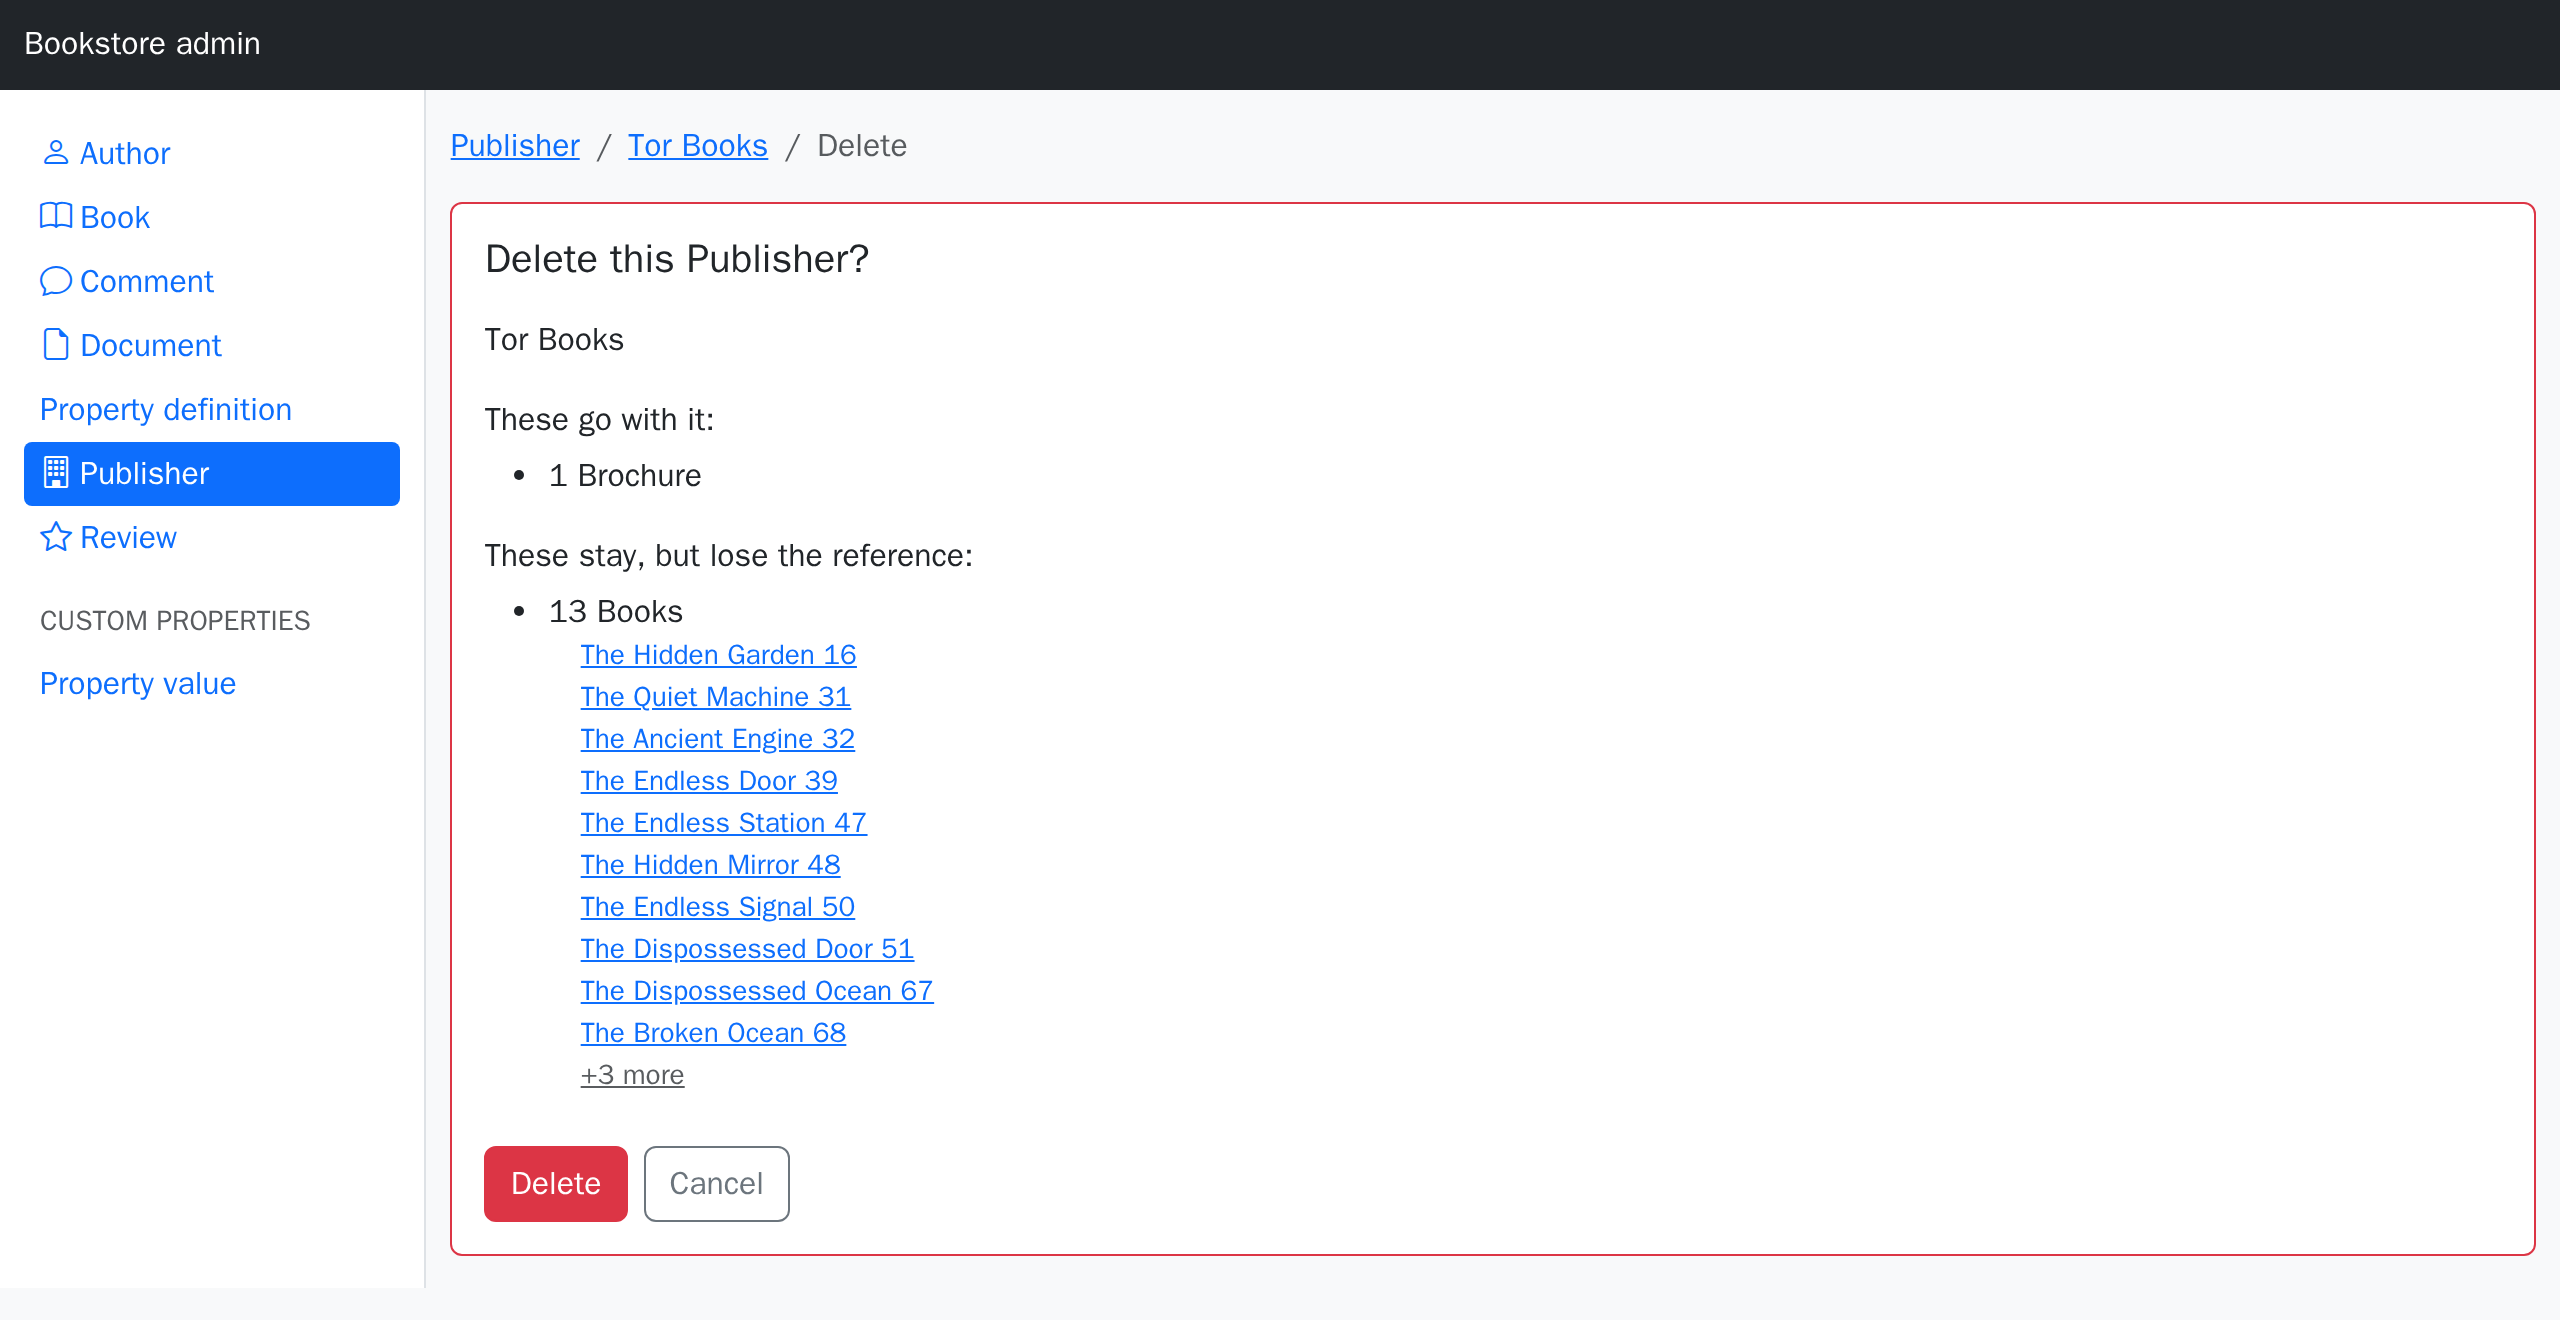
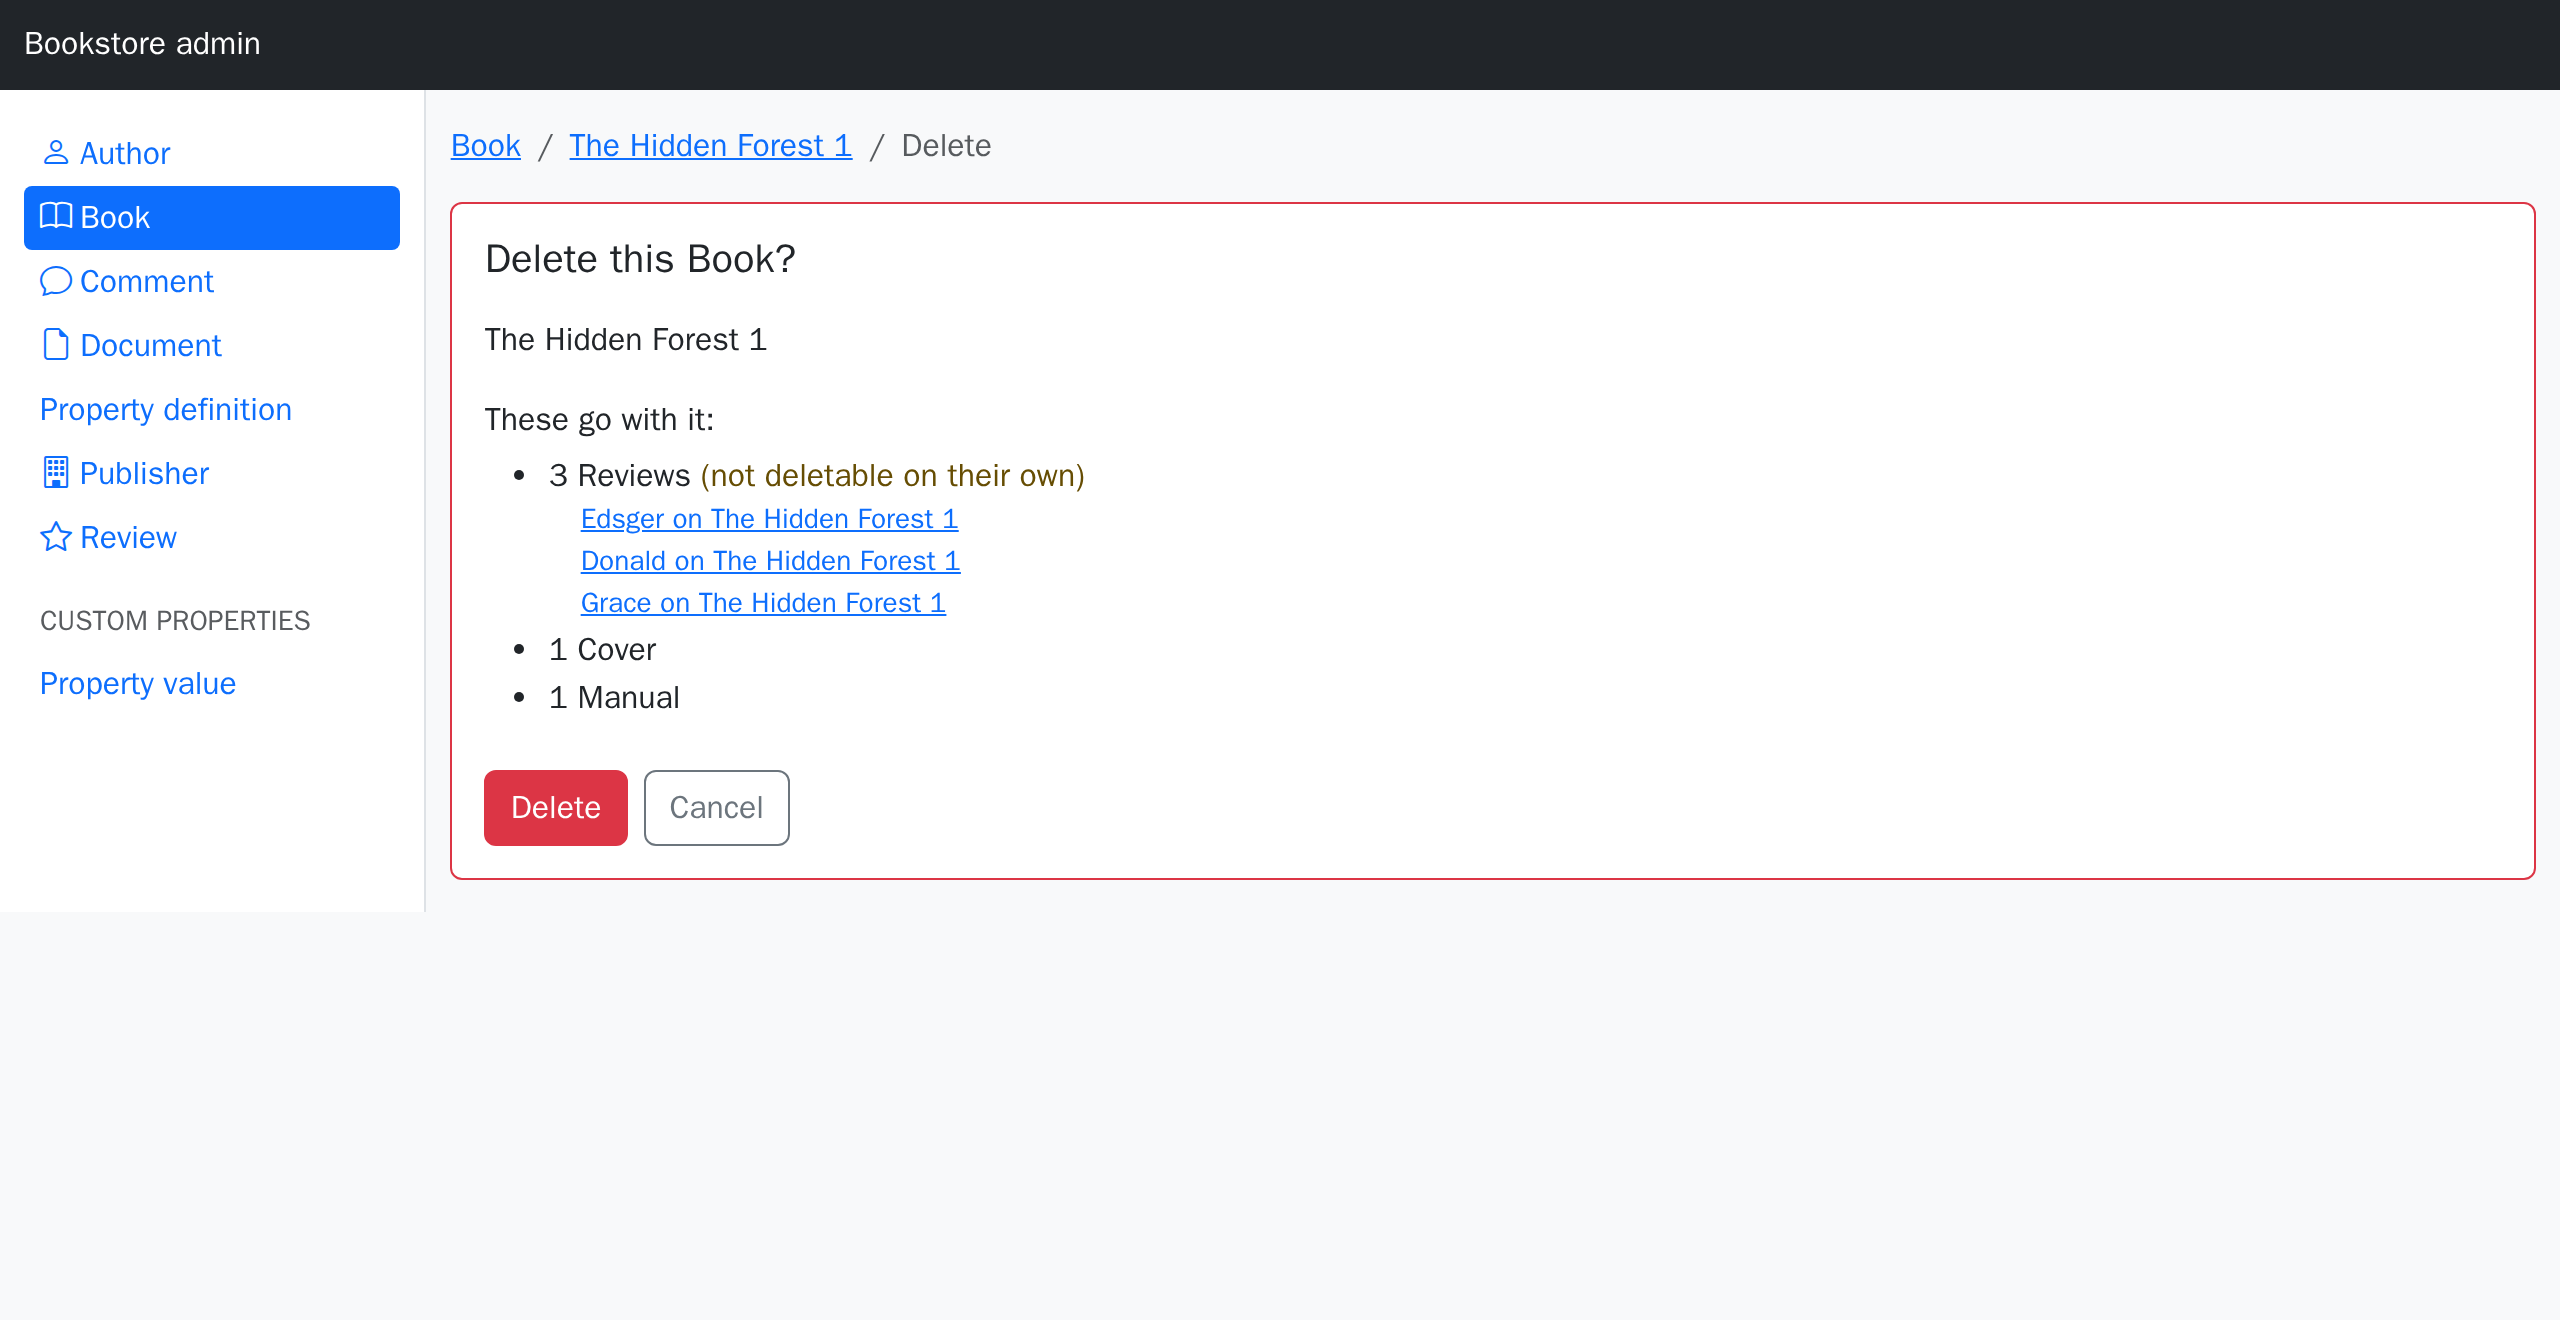
Admin: offer delete only where the ability allows it (#81)
The row's delete button was already asked for per record; the bulk action was
not — named :destroy_selected, it asked the ability about that name, which no
ability grants or denies deliberately. It now asks about :destroy on the model,
so a toolbar offers Delete selected only where deleting is allowed.

A cascade still reaches further than the ability does: dependent: :destroy
takes records you could not delete one by one, and no `can?` question can
express "may delete a Publisher but not its Books". That is not blocked — the
database does it either way — but the group is marked on the confirmation page,
where its records are listed anyway.

diff --git a/test/admin_engine_test.rb b/test/admin_engine_test.rb
@@ -353,6 +353,13 @@ class AdminEngineTest < ActionDispatch::IntegrationTest
     assert_select "button[formaction='/admin/authors/delete'][formmethod=get]"
   end
 
+  test 'the bulk action is absent when the ability withholds destroy' do
+    get '/admin/authors'
+
+    assert_response :success
+    assert_select "button[formaction='/admin/authors/delete']", count: 0
+  end
+
   test 'the bulk confirmation names the ticked rows and what goes with them' do
     post '/toggle_admin'
     Review.create!(book: @hobbit, rating: 4, reviewer_name: 'Ada', body: 'A classic.')
@@ -410,6 +417,28 @@ class AdminEngineTest < ActionDispatch::IntegrationTest
 
     assert_response :success
     assert_select 'li', text: /2\s+Review/i
+  end
+
+  # The playground's ability lets an admin delete a book but never a review on
+  # its own — a cascade takes them either way.
+  test 'the confirmation page marks what the cascade takes beyond your reach' do
+    post '/toggle_admin'
+    Review.create!(book: @hobbit, rating: 4, reviewer_name: 'Ada', body: 'A classic.')
+
+    get '/admin/books/hobbit/delete'
+
+    assert_response :success
+    assert_select 'li', text: /Review.*not deletable on their own/m
+  end
+
+  test 'what the ability does let you delete is not marked' do
+    post '/toggle_admin'
+    Review.create!(book: @hobbit, rating: 4, reviewer_name: 'Ada', body: 'A classic.')
+
+    get '/admin/publishers/tor-books/delete'
+
+    assert_response :success
+    assert_select 'li', text: /not deletable on their own/, count: 0
   end
 
   test 'the confirmation page names them, each linking to its own page' do

diff --git a/lib/crud_components/admin/view_helpers.rb b/lib/crud_components/admin/view_helpers.rb
@@ -10,6 +10,14 @@ module CrudComponents
         CrudComponents::Admin.path_for(entry.model, :index)
       end
 
+      # Whether these could be deleted on their own. A cascade takes them either
+      # way; the confirmation page says so. No ability means no opinion.
+      def admin_may_destroy?(model)
+        return true unless model && respond_to?(:can?)
+
+        can?(:destroy, model)
+      end
+
       # The ticked rows as one dependent item, so the confirmation page names
       # them the same way it names everything else that goes.
       def admin_selection_item(model, records)
@@ -58,7 +66,7 @@ module CrudComponents
 
         CrudComponents::Action.new(
           :destroy_selected, on: :selection, method: :get, confirm: false, icon: 'trash',
-          title: t('crud_components.admin.destroy_selected', default: 'Delete selected')
+          if: :destroy, title: t('crud_components.admin.destroy_selected', default: 'Delete selected')
         ) { public_send("delete_#{entry.route_key}_path") }
       end
 

diff --git a/test/dummy/app/controllers/application_controller.rb b/test/dummy/app/controllers/application_controller.rb
@@ -4,6 +4,11 @@ class ApplicationController < ActionController::Base
   # A deliberately tiny can?-shaped "ability" — the gem integrates with
   # anything that quacks like this (CanCanCan in real apps).
   def can?(action, subject)
+    # Reviews are never deleted one by one, not even by an admin — deleting the
+    # book they belong to takes them along all the same, which is what the
+    # confirmation page points out.
+    return false if action.to_sym == :destroy && (subject.is_a?(Review) || subject == Review)
+
     return true if admin?
     # Only admins may even open the property definitions — the admin UI drops a
     # model you cannot :index from its sidebar and dashboard.

diff --git a/CHANGELOG.md b/CHANGELOG.md
@@ -13,7 +13,7 @@ This project follows [semantic versioning](https://semver.org).
 - `admin` in `crud_structure` — the per-model half of that: `admin false` keeps a model out entirely, `admin actions: %i[index show]` makes it read-only (the write routes are never drawn, so a hand-crafted `POST` 404s), plus `group:`, `label:`, `fieldset:` and `scope:`. Inert when the admin engine isn't loaded.
 - `app_path { |book| … }` in `crud_structure`, and the `crud_app_path(record)` helper: the host application's own page for a record, for when it is not the conventional route. Backs the admin's "Show in app" button.
 - `crud_admin_path(record, action = :show)` — the way back in, from an ordinary page to the mounted admin. Finds the mount point itself; nil when the admin isn't mounted or that action isn't enabled for the model.
-- **The admin's delete goes through a confirmation page** that counts what the delete would take with it: associations declaring `dependent: :destroy`/`:delete_all` (with a marker when those cascade further), Active Storage attachments, what `:nullify` would orphan, and what `:restrict_with_*` blocks — the Delete button stays disabled while anything blocks. Each group **names** its records rather than only counting them: the first ten, each a link to its own page, then a link to the index holding the rest. **Delete selected** reaches the same page for the whole selection — the ticked records named, their dependents counted across all of them — instead of deleting behind a browser dialog. A browser dialog cannot say any of that.
+- **The admin's delete goes through a confirmation page** that counts what the delete would take with it: associations declaring `dependent: :destroy`/`:delete_all` (with a marker when those cascade further), Active Storage attachments, what `:nullify` would orphan, and what `:restrict_with_*` blocks — the Delete button stays disabled while anything blocks. Each group **names** its records rather than only counting them: the first ten, each a link to its own page, then a link to the index holding the rest. **Delete selected** reaches the same page for the whole selection — the ticked records named, their dependents counted across all of them — instead of deleting behind a browser dialog. A group the ability would not let you delete one by one is marked as such — a cascade takes it either way. Delete buttons follow the ability too: what is refused is not offered. A browser dialog cannot say any of that.
 - `crud_collection` and `crud_record` take `except_actions:` — action names one render drops, whatever the model declares. The admin uses it to replace the derived `:destroy` button with a link to that page.
 - `crud_collection` and `crud_record` take `extra_actions:` — row (or selection) actions appended for one render, for a button that belongs to the surface rather than to the model. Same permission check and route resolution as declared actions.
 

diff --git a/docs/admin.md b/docs/admin.md
@@ -110,6 +110,8 @@ Beyond the gate, your existing permissions apply unchanged:
   as `:destroy`. A model you may not `:index` is not even listed in the sidebar.
 - **`if:` and `editable:`** hide and freeze columns exactly as they do elsewhere, in the
   query layer too — see [Security](security.md).
+- **Buttons follow the ability**: no `:destroy` on a record, no delete button on its row; none
+  on the model, no **Delete selected** in the toolbar. What is refused is not offered.
 - **Forms** permit exactly `CrudComponents.permitted_attributes`, the same list the form
   renders from.
 
@@ -146,6 +148,10 @@ Each group **names its records**, not just their number: the first ten, each lin
 own admin page, and past that a link to the index holding the rest — the nested index under
 the record (`/admin/publishers/tor-books/books`), else that model's index filtered by it. A
 count tells you how much goes; the names tell you what.
+
+A cascade can reach further than you: `dependent: :destroy` takes records the ability would
+not let you delete one by one. That is not blocked — the database does it either way — but the
+group is **marked** on the page, so the delete is a decision rather than a surprise.
 
 Ticking rows in the index and using **Delete selected** reaches the same page for the whole
 selection (`/admin/books/delete`): the ticked records named, and what goes with them counted
